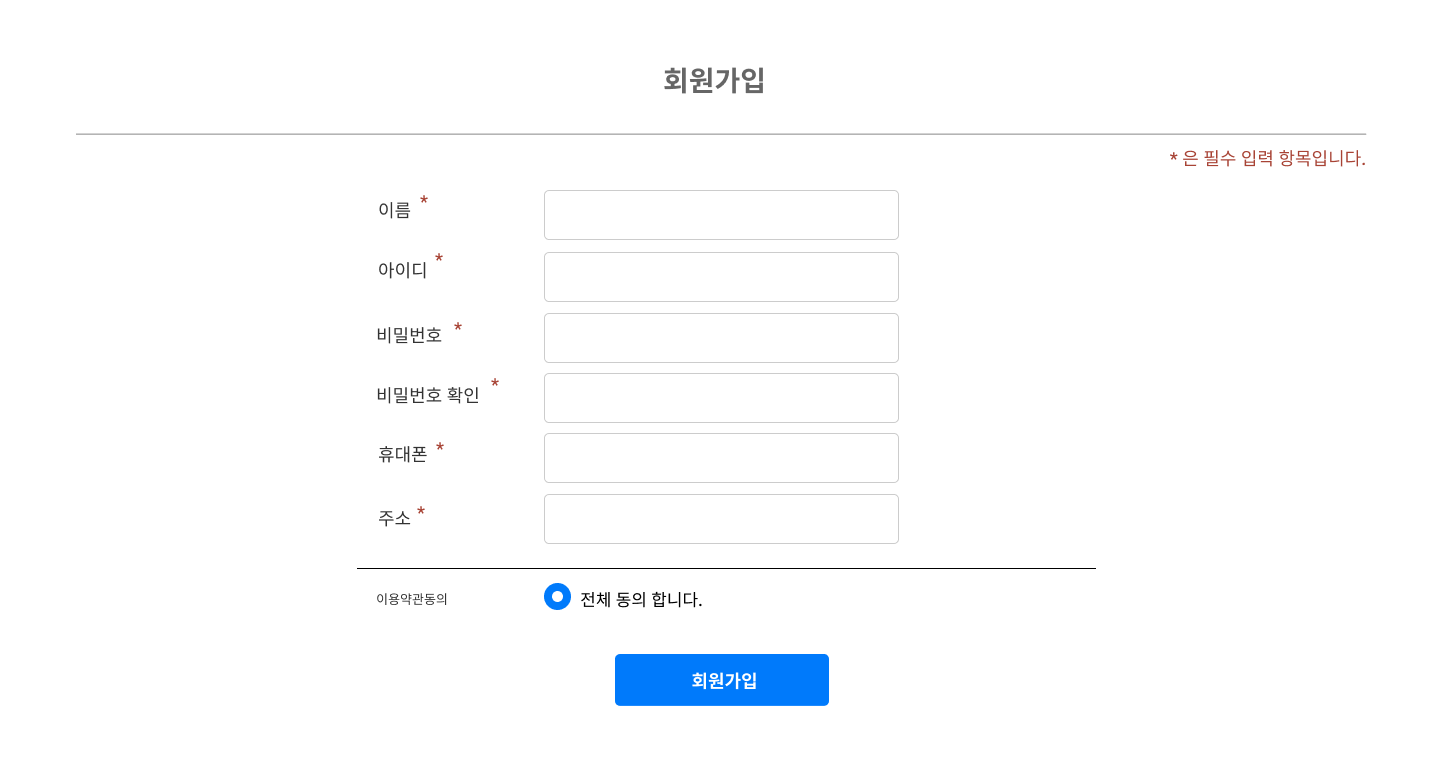
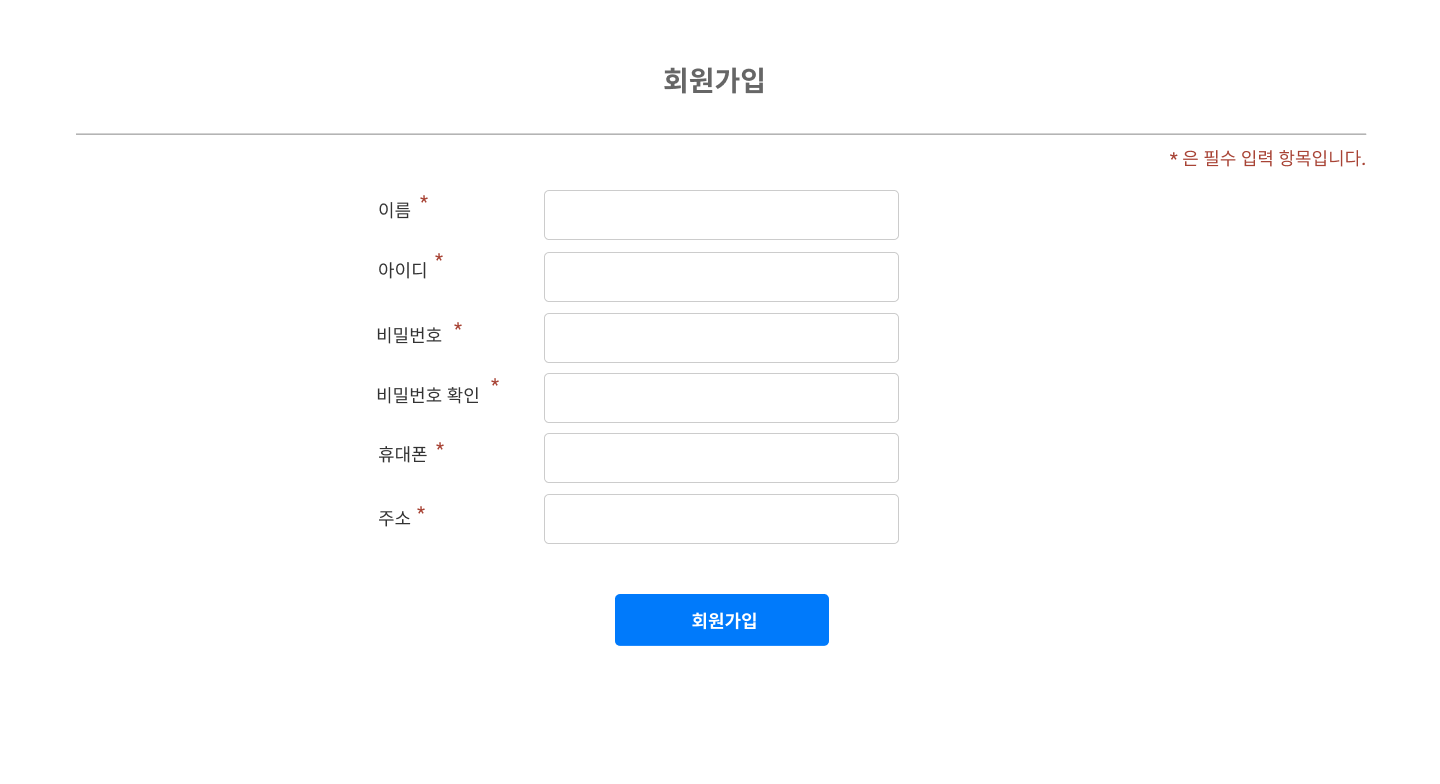
20210204_전인애
회원가입

Changed region(s): [[0.375, 0.7347, 0.5938, 0.9184], [0.2812, 0.7347, 0.3125, 0.7653]]

diff --git a/src/team/tjhis/gui/SignUpPage.java b/src/team/tjhis/gui/SignUpPage.java
@@ -1,17 +1,15 @@
 package team.tjhis.gui;
 
 import java.awt.Color;
-import java.awt.Font;
 import java.awt.Image;
+import java.awt.event.ActionEvent;
+import java.awt.event.ActionListener;
 
-import javax.swing.BorderFactory;
 import javax.swing.ImageIcon;
 import javax.swing.JButton;
-import javax.swing.JFrame;
 import javax.swing.JLabel;
 import javax.swing.JPanel;
 import javax.swing.JTextField;
-
 public class SignUpPage extends JPanel{
 	
 	private MainFrame mf;
@@ -25,176 +23,78 @@ public class SignUpPage extends JPanel{
 		this.mf = mf;
 		this.signUpPage = this;
 		
-		this.setBounds(408, 120, 619, 635);
 		this.setLayout(null);
-//		this.setBackground(Color.WHITE);
+		this.setBounds(0, 120, 1440, 790);
+		this.setBackground(Color.white);
 		
-		/*폰트 컬러기본설정*/
-		Color c1 = new Color(51, 51, 51);
-		Color c2=new Color(255,1,1);
-		Font font1 = new Font("나눔고딕", Font.PLAIN, 15);
-		Font font2 = new Font("나눔고딕", Font.BOLD, 17);
-		Font font3 = new Font("나눔고딕", Font.BOLD, 20);
 		
-		/* 로그인 필드 */
-		JLabel signUplabel = new JLabel("회원가입");
-		signUplabel.setHorizontalAlignment(JLabel.CENTER);
-		signUplabel.setFont(font3);
-		signUplabel.setForeground(new Color(51, 51, 51));
-		signUplabel.setBounds(200, 30, 200, 30);
-		add(signUplabel);
+		/* 회원가입 */
+		Image signUpImg = new ImageIcon("images/signUp.PNG").getImage().getScaledInstance(1440, 790, 0);
 		
-		/* 로그인 필드 */
-		JLabel listLabel = new JLabel("필수사항 입력");
-		listLabel.setHorizontalAlignment(JLabel.CENTER);
-		listLabel.setFont(font1);
-		listLabel.setForeground(new Color(51, 51, 51));
-		listLabel.setBounds(455, 57, 200, 30);
-		add(listLabel);
+		JLabel logoLabel = new JLabel(new ImageIcon(signUpImg));
+		logoLabel.setBounds(0, 0, 1440, 790);
 		
-		/*line_top*/
-		Image line2 = new ImageIcon("images/line_black.png").getImage().getScaledInstance(600, 1, 0);
-		JLabel lineLabel2 = new JLabel(new ImageIcon(line2));
-		lineLabel2.setBounds(10, 85, 600, 1);
-		
-		this.add(lineLabel2);
-
-		/*== 아이디 라벨==*/
-		JLabel idLabel = new JLabel("아이디");
-		idLabel.setFont(font2);
-		idLabel.setForeground(new Color(136, 136, 136));
-		idLabel.setBounds(10, 110, 100, 30);
-		add(idLabel);
-		
-		/* 아이디 필드 */
-		JTextField idField = new JTextField("6자 이상 영문 숫자와 조합해 주세요");
-		idField.setFont(font1);
-		idField.setForeground(new Color(204, 204, 204));
-		idField.setBounds(145, 100, 355, 50);
-		idField.setBorder(BorderFactory.createLineBorder(Color.decode("#CCCCCC")));
-		add(idField);
-		
-		/* 중복 체크 */
-		JButton btn = new JButton("중복체크");
-		btn.setFont(font2);
-		btn.setBorderPainted(false);
-		btn.setBounds(509, 100, 100, 50);
-		btn.setBackground(new Color(0, 122, 251));
-		btn.setBorder(BorderFactory.createLineBorder(Color.decode("#CCCCCC")));
-		btn.setForeground(Color.WHITE);
-		add(btn);
-		
-		/* == 비번 라벨 ==*/
-		JLabel pwdLabel = new JLabel("비밀번호");
-		pwdLabel.setFont(font2);
-		pwdLabel.setForeground(new Color(136, 136, 136));
-		pwdLabel.setBounds(10, 170, 100, 30);
-		add(pwdLabel);
-		
-		/* 비번 필드 */
-		JTextField pwdField = new JTextField("비밀번호를 입력해 주세요");
-		pwdField.setFont(font1);
-		pwdField.setForeground(new Color(204, 204, 204));
-		pwdField.setBounds(145, 160, 355, 50);
-		pwdField.setBorder(BorderFactory.createLineBorder(Color.decode("#CCCCCC")));
-		add(pwdField);
-		
-		/* == 비번확인 라벨 ==*/
-		JLabel pwdDbcLabel = new JLabel("비밀번호 확인");
-		pwdDbcLabel.setFont(font2);
-		pwdDbcLabel.setForeground(new Color(136, 136, 136));
-		pwdDbcLabel.setBounds(10, 230, 150, 30);
-		add(pwdDbcLabel);
-		
-		/*비번확인*/
-		JTextField pwdDbcField = new JTextField("비밀번호를 입력해 주세요");
-		pwdDbcField.setFont(font1);
-		pwdDbcField.setForeground(new Color(204, 204, 204));
-		pwdDbcField.setBounds(145, 220, 355, 50);
-		pwdDbcField.setBorder(BorderFactory.createLineBorder(Color.decode("#CCCCCC")));
-		add(pwdDbcField);
-		
-
-		/* == 이름 라벨 ==*/
-		JLabel nameLabel = new JLabel("이름");
-		nameLabel.setFont(font2);
-		nameLabel.setForeground(new Color(136, 136, 136));
-		nameLabel.setBounds(10, 290, 100, 30);
-		add(nameLabel);
 		
 		/*이름 필드*/
-		JTextField nameField = new JTextField("이름을 입력해 주세요");
-		nameField.setFont(font1);
-		nameField.setForeground(new Color(204, 204, 204));
-		nameField.setBounds(145, 280, 355, 50);
-		nameField.setBorder(BorderFactory.createLineBorder(Color.decode("#CCCCCC")));
-		add(nameField);
+		JTextField nameF = new JTextField(20);
+		nameF.setSize(336,40);
+		nameF.setLocation(554, 200);
+		nameF.setBorder(null);
 		
-		/* == 전화번호 라벨 ==*/
-		JLabel phonLabel = new JLabel("전화번호");
-		phonLabel.setFont(font2);
-		phonLabel.setForeground(new Color(136, 136, 136));
-		phonLabel.setBounds(10, 350, 100, 30);
-		add(phonLabel);
+		/* id 필드 */
+		JTextField idF = new JTextField(20);
+		idF.setSize(336,40);
+		idF.setLocation(554, 260);
+		idF.setBorder(null);
 		
-		/*전화번호 필드*/
-		JTextField phonField = new JTextField("숫자만 입력해 주세요");
-		phonField.setFont(font1);
-		phonField.setForeground(new Color(204, 204, 204));
-		phonField.setBounds(145, 340, 355, 50);
-		phonField.setBorder(BorderFactory.createLineBorder(Color.decode("#CCCCCC")));
-		add(phonField);
+		/* 비번 필드 */
+		JTextField pwdF = new JTextField(20);
+		pwdF.setSize(336,40);
+		pwdF.setLocation(554, 320);
+		pwdF.setBorder(null);
 		
-		/* == 주소 라벨 ==*/
-		JLabel adrLabel = new JLabel("주소");
-		adrLabel.setFont(font2);
-		adrLabel.setForeground(new Color(136, 136, 136));
-		adrLabel.setBounds(10, 410, 100, 30);
-		add(adrLabel);
+		/* 비번확인 필드 */
+		JTextField pwdDF = new JTextField(20);
+		pwdDF.setSize(336,40);
+		pwdDF.setLocation(554, 380);
+		pwdDF.setBorder(null);
 		
-		JTextField adrField = new JTextField("주소를 입력해 주세요");
-		adrField.setFont(font1);
-		adrField.setForeground(new Color(204, 204, 204));
-		adrField.setBounds(145,400, 355, 50);
-		adrField.setBorder(BorderFactory.createLineBorder(Color.decode("#CCCCCC")));
-		add(adrField);
+		/* 전화번호 필드 */
+		JTextField phonF = new JTextField(20);
+		phonF.setSize(336,40);
+		phonF.setLocation(554, 440);
+		phonF.setBorder(null);
 		
+		/* 주소 필드 */
+		JTextField adrF = new JTextField(20);
+		adrF.setSize(336,40);
+		adrF.setLocation(554, 500);
+		adrF.setBorder(null);
 		
-		/*line_footer*/
-		Image line1 = new ImageIcon("images/line_black.png").getImage().getScaledInstance(600, 1, 0);
-		JLabel lineLabel1 = new JLabel(new ImageIcon(line1));
-		lineLabel1.setBounds(10, 470, 600, 1);
-		
-		this.add(lineLabel1);
-		
-		
-		/*체크박스 이미지*/
-		Image image = new ImageIcon("images/Vectorcheck.PNG").getImage().getScaledInstance(15, 15, 0);
-		JLabel checkLabel = new JLabel(new ImageIcon(image));
-		checkLabel.setBounds(10, 490, 15, 15);
-		
-		this.add(checkLabel);
-		
-		/* == 이용약관 동의 라벨 ==*/
-		JLabel tosLabel = new JLabel("이용약관에 동의 하시겠습니까?");
-		tosLabel.setFont(font1);
-		tosLabel.setForeground(new Color(136, 136, 136));
-		tosLabel.setBounds(30, 483, 300, 30);
-		add(tosLabel);
-		
+		/* 확인 필드 */
+		JButton signUpBtn = new JButton("확인");
+		signUpBtn.setSize(205, 50);
+		signUpBtn.setLocation(620, 590);
+		signUpBtn.setOpaque(false);
 
-		/*체크박스 이미지*/
-		Image button = new ImageIcon("images/button.PNG").getImage().getScaledInstance(161, 39, 0);
-		JLabel buttonLabel = new JLabel(new ImageIcon(button));
-		buttonLabel.setBounds(230, 550, 161, 39);
-		
-		this.add(buttonLabel);
-		
-		
-		mf.add(signUpPage);
+		this.add(logoLabel);
+		this.add(nameF);
+		this.add(idF);
+		this.add(pwdF);
+		this.add(pwdDF);
+		this.add(phonF);
+		this.add(adrF);
+		this.add(signUpBtn);
 
-		mf.setVisible(true);
-		mf.setDefaultCloseOperation(JFrame.EXIT_ON_CLOSE);
+
+		signUpBtn.addActionListener(new ActionListener() {
+			
+			@Override
+			public void actionPerformed(ActionEvent e) {
+				PopUpPage.popUp(mf, "images/welcome.png");
+			}
+		});
+
 	}
 
 }
